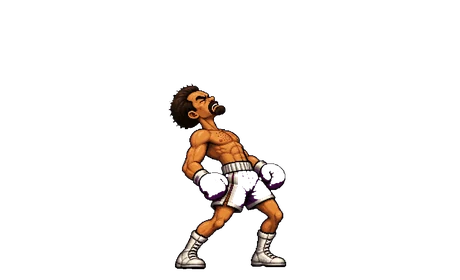
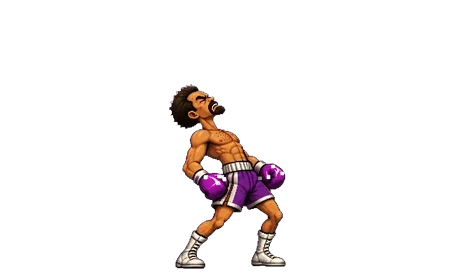
Boks: mor eldivenli rakibin şeffaf görünen eldiven ve şortu düzeltildi
Claude-Session: https://claude.ai/code/session_01ToyLQfU5ZWi1w6YotPTyKf

diff --git a/index.html b/index.html
@@ -393,7 +393,7 @@ body.t-baba .yr p.news{font-family:"Cinzel",serif;font-style:normal;border-left-
 <script>
 /* ============ Sürüm ve otomatik güncelleme (GitHub) ============ */
 try{if('serviceWorker' in navigator&&/github\.io$/.test(location.hostname))navigator.serviceWorker.register('sw.js').catch(()=>{})}catch(e){}
-const APPV='2026.11.16-0800';
+const APPV='2026.11.16-0900';
 (function(){try{if(!/github\.io$/.test(location.hostname))return;fetch(location.pathname+'?nc='+Date.now(),{cache:'no-store'}).then(r=>r.text()).then(t=>{const m=t.match(/const APPV='([^']+)'/);if(m&&m[1]!==APPV&&!sessionStorage.getItem('upd'+m[1])){sessionStorage.setItem('upd'+m[1],'1');location.replace(location.pathname+'?v='+encodeURIComponent(m[1]))}}).catch(()=>{})}catch(e){}})();
 /* ============ Yardımcılar ============ */
 const $=id=>document.getElementById(id);
